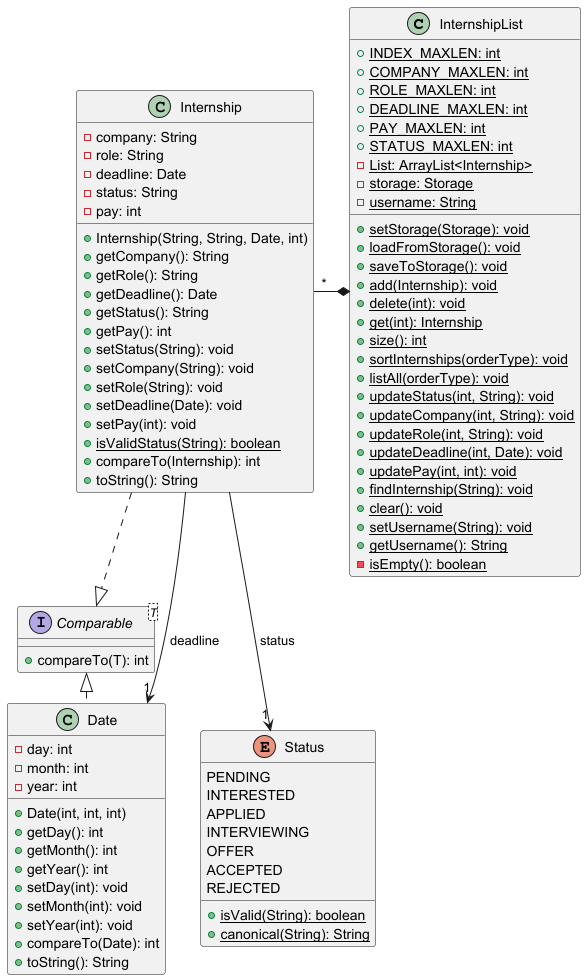
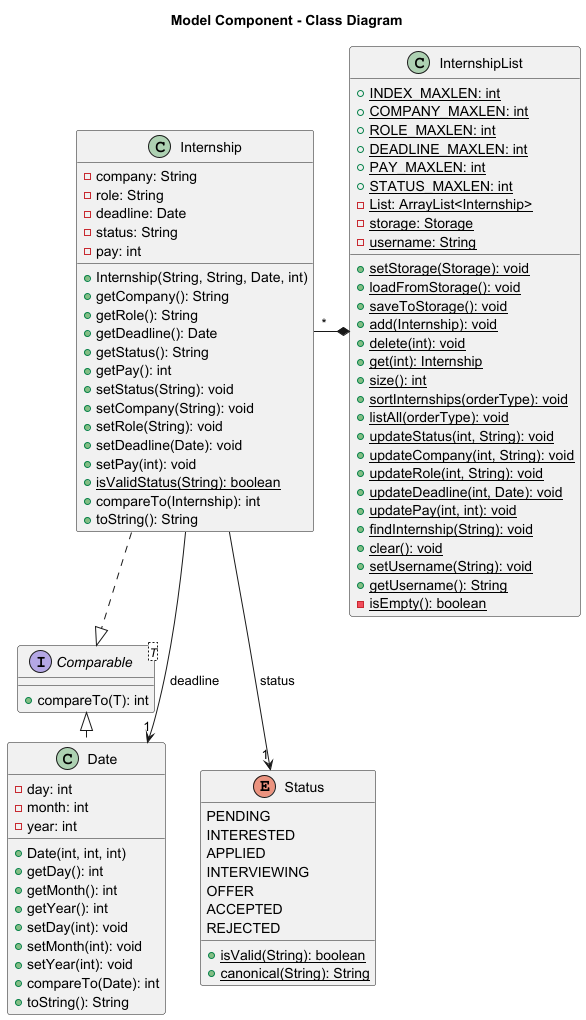
add title to CD

diff --git a/docs/DeveloperGuide.md b/docs/DeveloperGuide.md
@@ -115,6 +115,15 @@ This distinction is represented in the above sequence diagram's `alt` block, sho
 
 ### Model Component
 
+**API**: [`internity.core`](https://github.com/AY2526S1-CS2113-W14-4/tp/blob/master/src/main/java/internity/core/)
+
+![Model Component: Class Diagram](diagrams/ModelComponentCD.png)
+
+The `Model` component:
+* stores internship data i.e. all `Internship` objects in an `InternshipList` object
+* provides operations to manipulate that data e.g. `add`, `delete`, `update`, `find`, `list` internships
+* does not depend on the UI and Logic components
+
 ### Storage Component
 
 **API**: [`Storage.java`](https://github.com/AY2526S1-CS2113-W14-4/tp/blob/master/src/main/java/internity/core/Storage.java)
